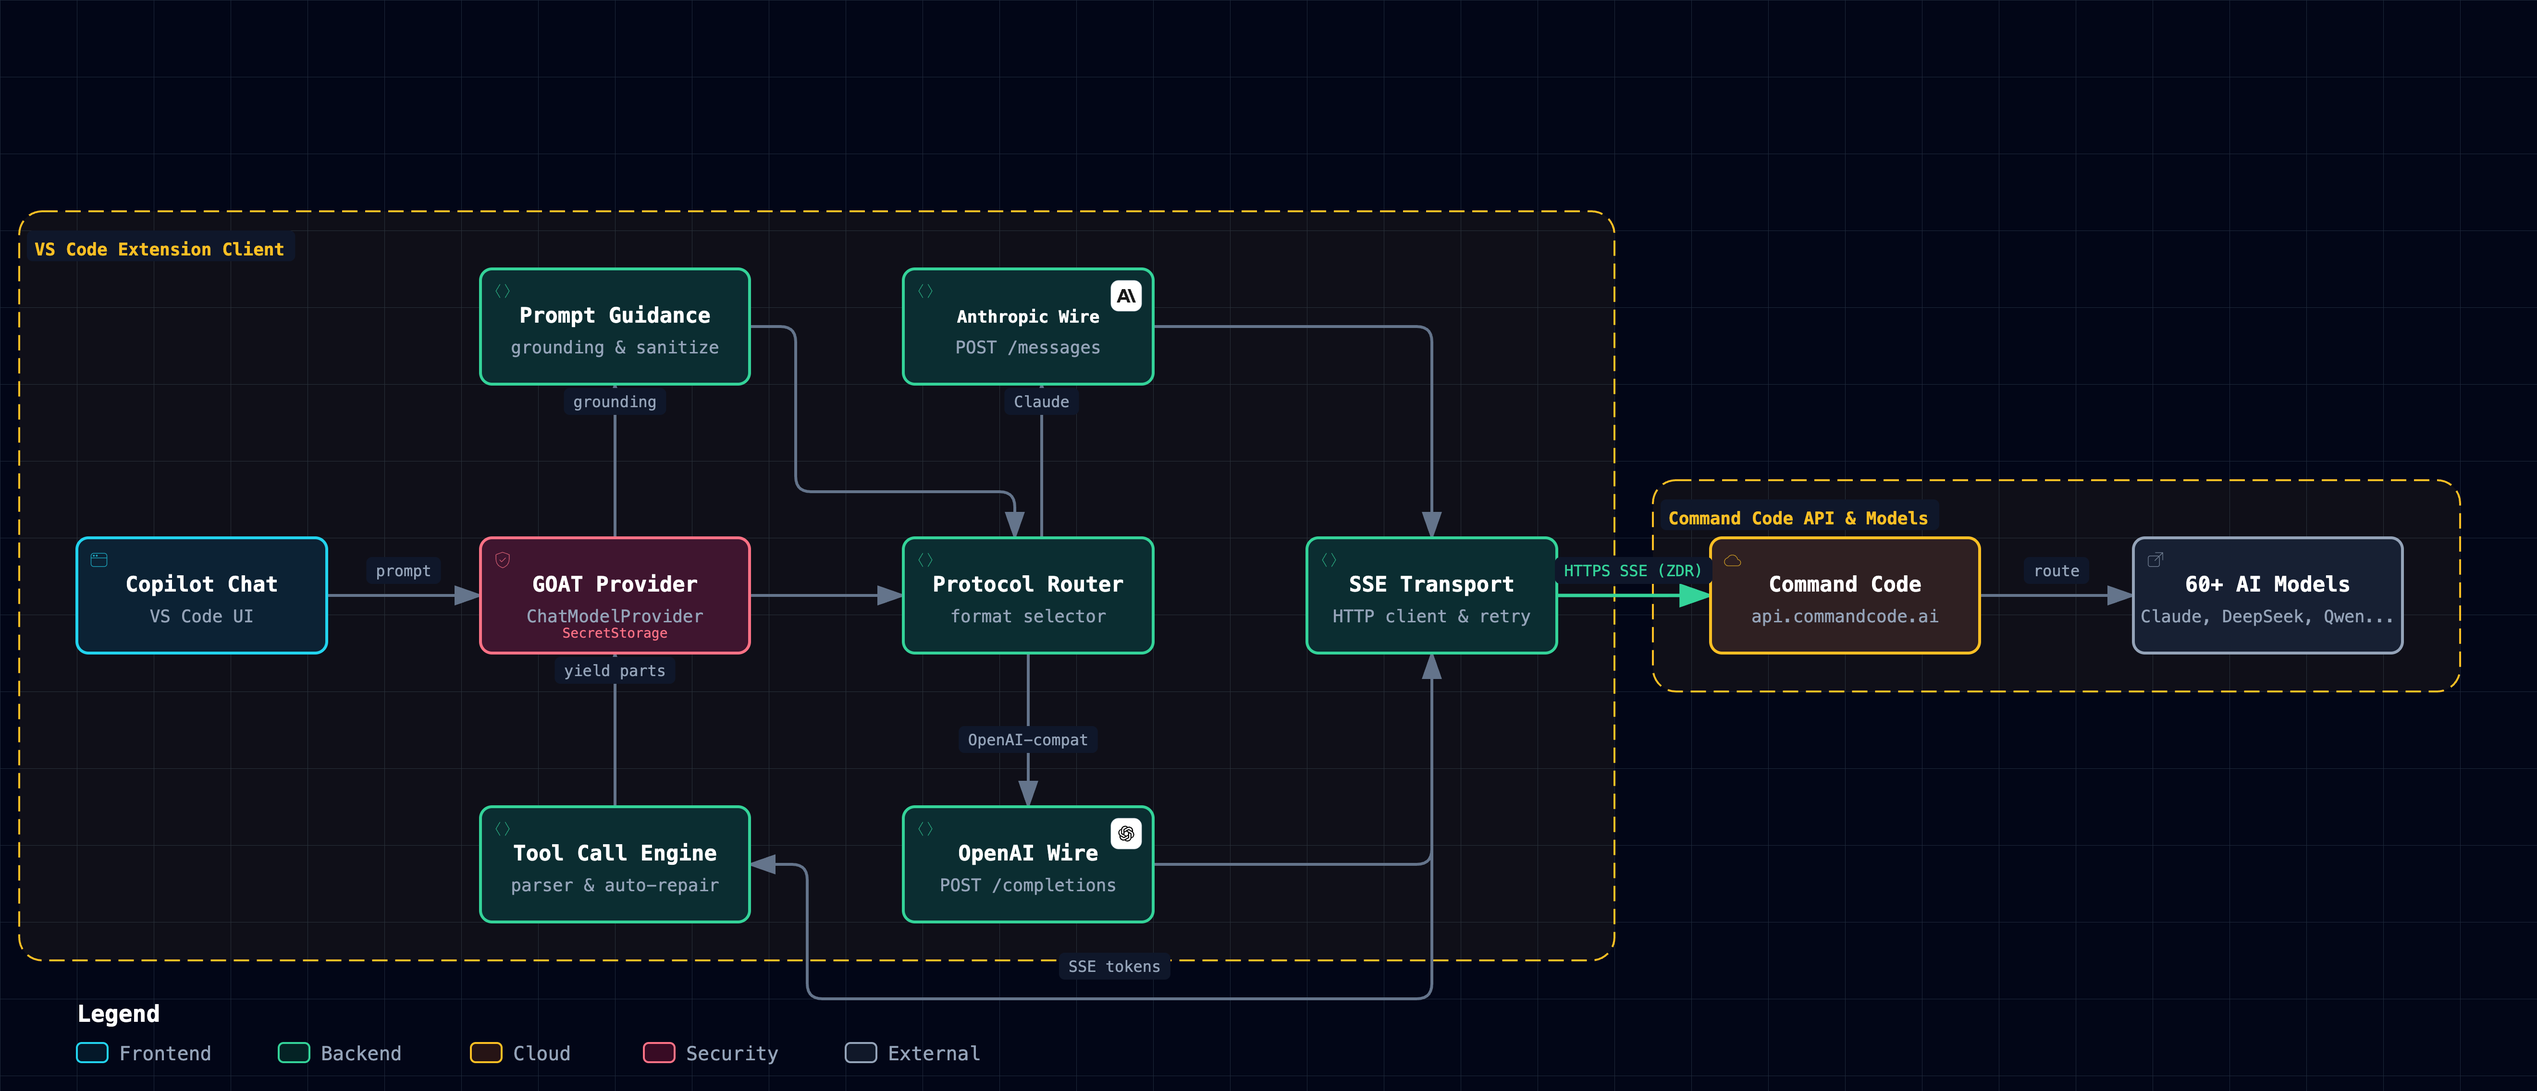
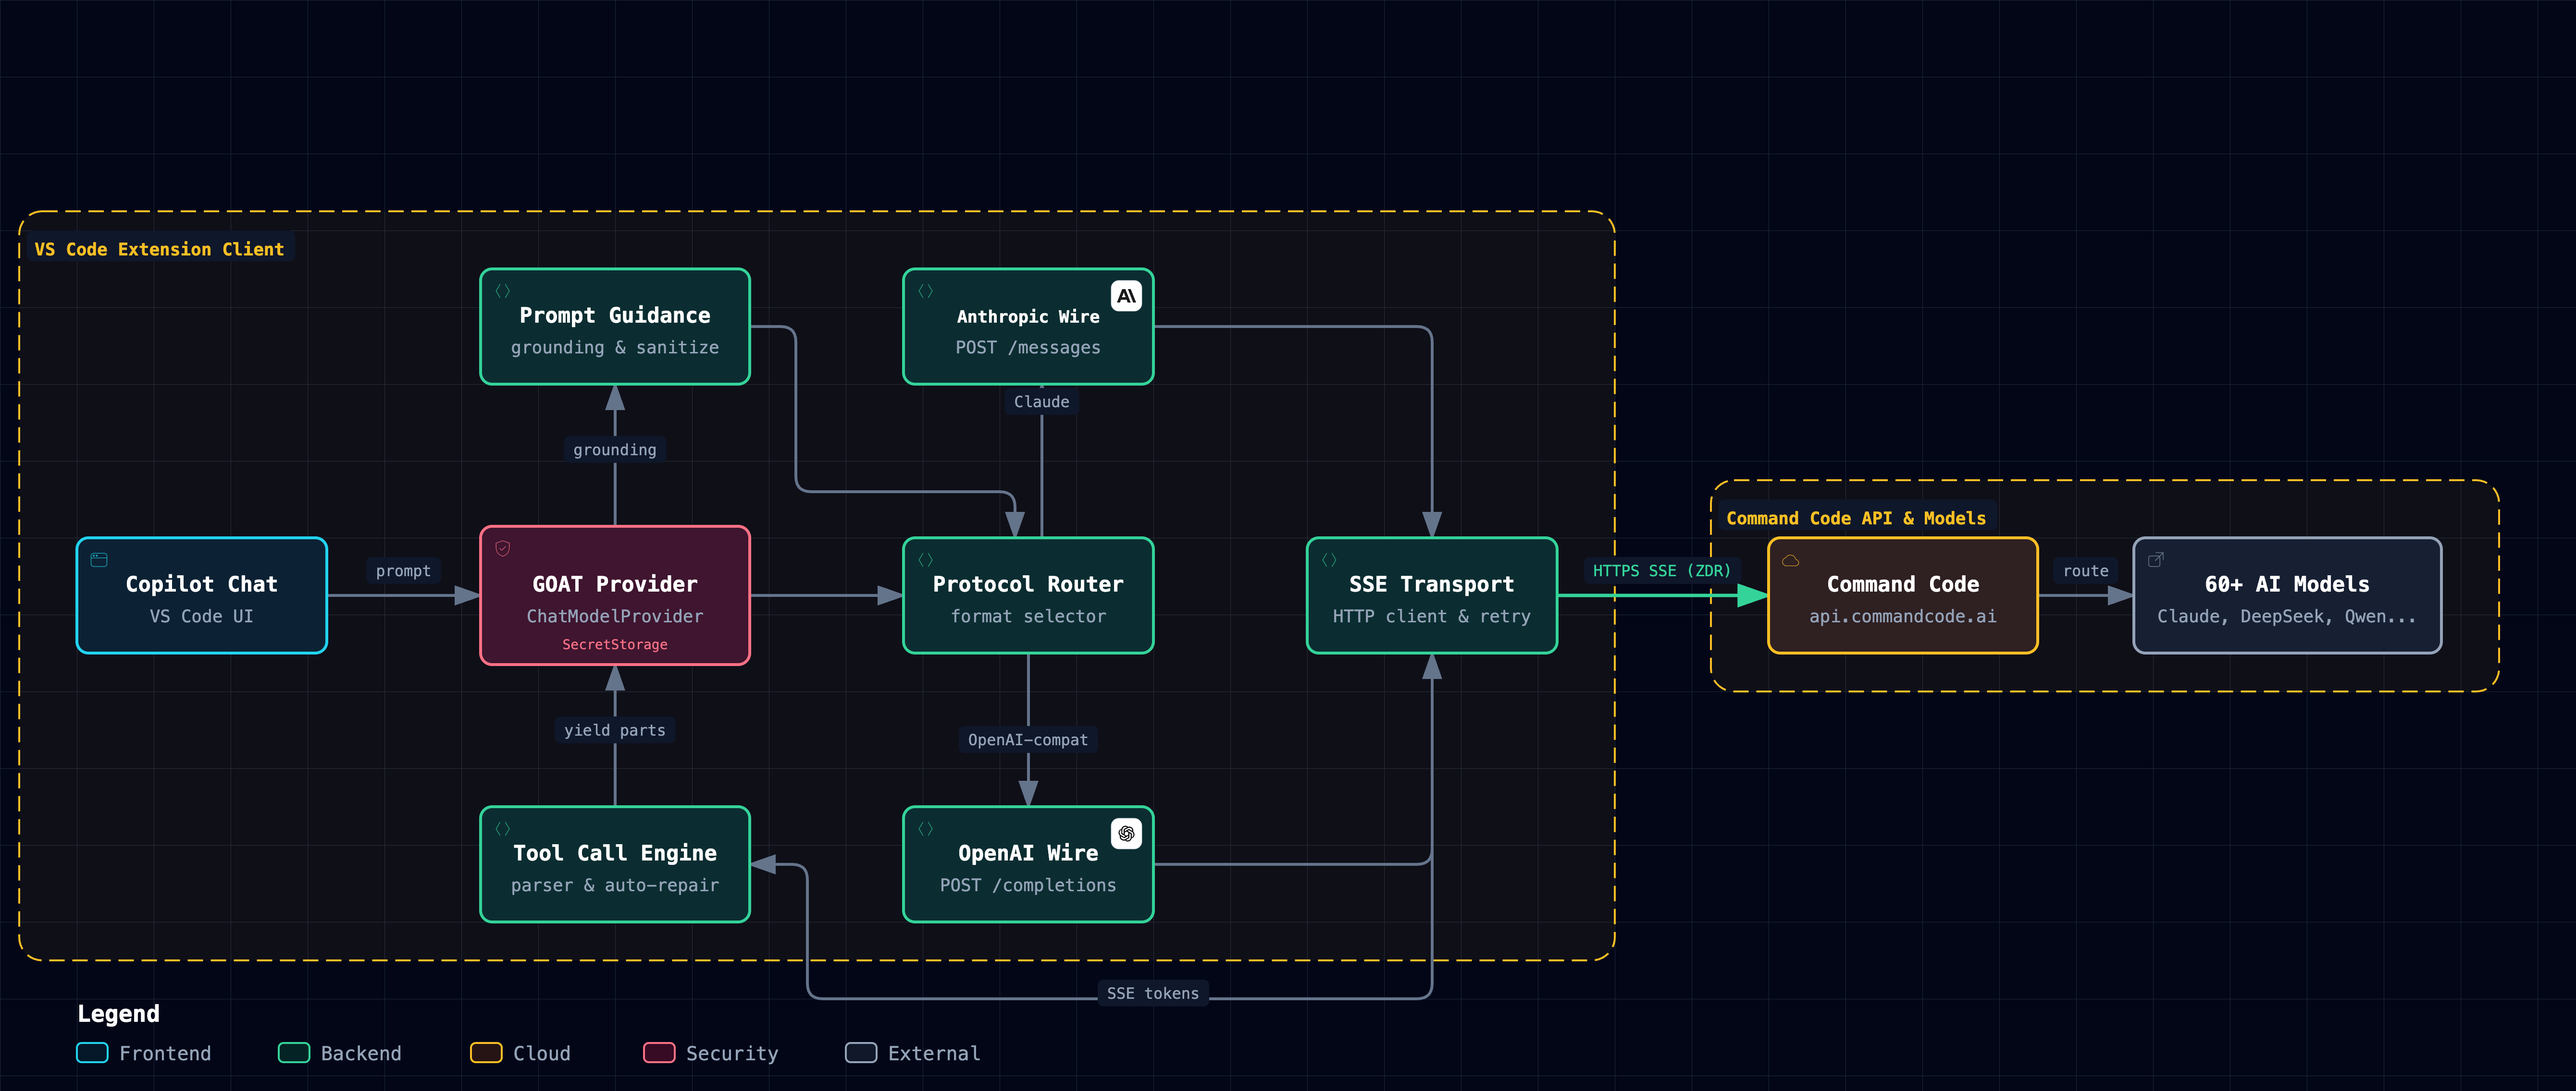
docs: rebalance architecture diagram layout to remove label overlaps

diff --git a/docs/index.html b/docs/index.html
@@ -5004,7 +5004,7 @@
     <!-- Main Diagram -->
     <div class="diagram-container" data-detail-level="read"
          data-preset-badge-editorial-plate="ARCHIFY / PLATE 04">
-      <svg viewBox="0 0 1320 568" role="img" lang="en" aria-labelledby="archify-diagram-title archify-diagram-description" data-preset="classic" data-quality-profile="showcase">
+      <svg viewBox="0 0 1340 568" role="img" lang="en" aria-labelledby="archify-diagram-title archify-diagram-description" data-preset="classic" data-quality-profile="showcase">
         <title id="archify-diagram-title">Command Code GOAT Provider Architecture</title>
         <desc id="archify-diagram-description">An architecture diagram generated by Archify.</desc>
         <!-- Definitions -->
@@ -5032,21 +5032,21 @@
         <!-- Boundaries (behind everything) -->
         <rect data-graph-role="structural-frame" data-composition-frame-kind="region" data-composition-frame-id="0" data-composition-frame-label="VS Code Extension Client" x="10" y="110" width="830" height="390" rx="12" class="c-region" stroke-width="1"/>
 
-        <rect data-graph-role="structural-frame" data-composition-frame-kind="region" data-composition-frame-id="1" data-composition-frame-label="Command Code API &amp; Models" x="860" y="250" width="420" height="110" rx="12" class="c-region" stroke-width="1"/>
+        <rect data-graph-role="structural-frame" data-composition-frame-kind="region" data-composition-frame-id="1" data-composition-frame-label="Command Code API &amp; Models" x="890" y="250" width="410" height="110" rx="12" class="c-region" stroke-width="1"/>
 
         <!-- Connection paths (before components for correct z-order) -->
         <path data-edge-from="copilot" data-edge-to="provider" data-edge-label="prompt" data-edge-key="0" data-edge-id="copilot-to-provider" data-composition-points="170,310;250,310" d="M 170 310 L 250 310" class="a-default" stroke-width="1.5" marker-end="url(#arrowhead)"/>
-        <path data-edge-from="provider" data-edge-to="guidance" data-edge-label="grounding" data-edge-key="1" data-edge-id="provider-to-guidance" data-composition-points="320,280;320,200" d="M 320 280 L 320 200" class="a-default" stroke-width="1.5" marker-end="url(#arrowhead)"/>
+        <path data-edge-from="provider" data-edge-to="guidance" data-edge-label="grounding" data-edge-key="1" data-edge-id="provider-to-guidance" data-composition-points="320,274;320,200" d="M 320 274 L 320 200" class="a-default" stroke-width="1.5" marker-end="url(#arrowhead)"/>
         <path data-edge-from="guidance" data-edge-to="router" data-edge-key="2" data-edge-id="guidance-to-router" data-composition-points="390,170;414,170;414,256;528,256;528,280" d="M 390 170 L 406 170 Q 414 170 414 178 L 414 248 Q 414 256 422 256 L 520 256 Q 528 256 528 264 L 528 280" class="a-default" stroke-width="1.5" marker-end="url(#arrowhead)"/>
         <path data-edge-from="provider" data-edge-to="router" data-edge-key="3" data-edge-id="provider-to-router" data-composition-points="390,310;470,310" d="M 390 310 L 470 310" class="a-default" stroke-width="1.5" marker-end="url(#arrowhead)"/>
         <path data-edge-from="router" data-edge-to="anthropic" data-edge-label="Claude" data-edge-key="4" data-edge-id="router-to-anthropic" data-composition-points="542,280;542,200" d="M 542 280 L 542 200" class="a-default" stroke-width="1.5" marker-end="url(#arrowhead)"/>
         <path data-edge-from="router" data-edge-to="openai" data-edge-label="OpenAI-compat" data-edge-key="5" data-edge-id="router-to-openai" data-composition-points="535,340;535,420" d="M 535 340 L 535 420" class="a-default" stroke-width="1.5" marker-end="url(#arrowhead)"/>
         <path data-edge-from="anthropic" data-edge-to="stream" data-edge-key="6" data-edge-id="anthropic-to-stream" data-composition-points="600,170;745,170;745,280" d="M 600 170 L 737 170 Q 745 170 745 178 L 745 280" class="a-default" stroke-width="1.5" marker-end="url(#arrowhead)"/>
         <path data-edge-from="openai" data-edge-to="stream" data-edge-key="7" data-edge-id="openai-to-stream" data-composition-points="600,450;745,450;745,340" d="M 600 450 L 737 450 Q 745 450 745 442 L 745 340" class="a-default" stroke-width="1.5" marker-end="url(#arrowhead)"/>
-        <path data-edge-from="stream" data-edge-to="gateway" data-edge-label="HTTPS SSE (ZDR)" data-edge-key="8" data-edge-id="stream-to-gateway" data-composition-points="810,310;890,310" d="M 810 310 L 890 310" class="a-emphasis" stroke-width="1.8" marker-end="url(#arrowhead-emphasis)"/>
-        <path data-edge-from="gateway" data-edge-to="models" data-edge-label="route" data-edge-key="9" data-edge-id="gateway-to-models" data-composition-points="1030,310;1110,310" d="M 1030 310 L 1110 310" class="a-default" stroke-width="1.5" marker-end="url(#arrowhead)"/>
+        <path data-edge-from="stream" data-edge-to="gateway" data-edge-label="HTTPS SSE (ZDR)" data-edge-key="8" data-edge-id="stream-to-gateway" data-composition-points="810,310;920,310" d="M 810 310 L 920 310" class="a-emphasis" stroke-width="1.8" marker-end="url(#arrowhead-emphasis)"/>
+        <path data-edge-from="gateway" data-edge-to="models" data-edge-label="route" data-edge-key="9" data-edge-id="gateway-to-models" data-composition-points="1060,310;1110,310" d="M 1060 310 L 1110 310" class="a-default" stroke-width="1.5" marker-end="url(#arrowhead)"/>
         <path data-edge-from="stream" data-edge-to="tool_engine" data-edge-label="SSE tokens" data-edge-key="10" data-edge-id="stream-to-tool-engine" data-composition-points="745,340;745,520;420,520;420,450;390,450" d="M 745 340 L 745 512 Q 745 520 737 520 L 428 520 Q 420 520 420 512 L 420 458 Q 420 450 412 450 L 390 450" class="a-default" stroke-width="1.5" marker-end="url(#arrowhead)"/>
-        <path data-edge-from="tool_engine" data-edge-to="provider" data-edge-label="yield parts" data-edge-key="11" data-edge-id="tool-engine-to-provider" data-composition-points="320,420;320,340" d="M 320 420 L 320 340" class="a-default" stroke-width="1.5" marker-end="url(#arrowhead)"/>
+        <path data-edge-from="tool_engine" data-edge-to="provider" data-edge-label="yield parts" data-edge-key="11" data-edge-id="tool-engine-to-provider" data-composition-points="320,420;320,346" d="M 320 420 L 320 346" class="a-default" stroke-width="1.5" marker-end="url(#arrowhead)"/>
 
         <!-- Components -->
         <g id="node-copilot" data-node-id="copilot" data-node-label="Copilot Chat" tabindex="0" role="button" aria-label="Focus Copilot Chat, VS Code UI, VS Code Extension Client" aria-pressed="false" data-node-kind="frontend" data-node-sublabel="VS Code UI" data-node-context="VS Code Extension Client">
@@ -5065,15 +5065,15 @@
 
         <g id="node-provider" data-node-id="provider" data-node-label="GOAT Provider" tabindex="0" role="button" aria-label="Focus GOAT Provider, ChatModelProvider, VS Code Extension Client" aria-pressed="false" data-node-kind="security" data-node-sublabel="ChatModelProvider" data-node-tag="SecretStorage" data-node-context="VS Code Extension Client">
           <title>GOAT Provider · ChatModelProvider · VS Code Extension Client · SecretStorage</title>
-          <rect x="250" y="280" width="140" height="60" rx="6" class="c-mask"/>
-          <rect x="250" y="280" width="140" height="60" rx="6" class="c-security" stroke-width="1.5"/>
-          <g aria-hidden="true" data-semantic-sigil="security" class="semantic-sigil s-security" transform="translate(256 286) scale(0.6875)">
+          <rect x="250" y="274" width="140" height="72" rx="6" class="c-mask"/>
+          <rect x="250" y="274" width="140" height="72" rx="6" class="c-security" stroke-width="1.5"/>
+          <g aria-hidden="true" data-semantic-sigil="security" class="semantic-sigil s-security" transform="translate(256 280) scale(0.6875)">
             <path d="M8 2.2 13 4v3.5c0 3.1-1.8 5.4-5 6.5-3.2-1.1-5-3.4-5-6.5V4Z"/>
             <path d="m5.8 8 1.5 1.5 3-3"/>
           </g>
           <text data-node-label="" data-detail-anchor="" x="320" y="308" class="t-primary" font-size="11" font-weight="600" text-anchor="middle">GOAT Provider</text>
         <text data-detail="context" x="320" y="324" class="t-muted" font-size="9" text-anchor="middle">ChatModelProvider</text>
-        <text data-detail="fine" x="320" y="332" class="t-security" font-size="7" text-anchor="middle">SecretStorage</text>
+        <text data-detail="fine" x="320" y="338" class="t-security" font-size="7" text-anchor="middle">SecretStorage</text>
         </g>
 
         <g id="node-guidance" data-node-id="guidance" data-node-label="Prompt Guidance" tabindex="0" role="button" aria-label="Focus Prompt Guidance, grounding &amp; sanitize, VS Code Extension Client" aria-pressed="false" data-node-kind="backend" data-node-sublabel="grounding &amp; sanitize" data-node-context="VS Code Extension Client">
@@ -5154,25 +5154,25 @@
 
         <g id="node-gateway" data-node-id="gateway" data-node-label="Command Code" tabindex="0" role="button" aria-label="Focus Command Code, api.commandcode.ai, Command Code API &amp; Models" aria-pressed="false" data-node-kind="cloud" data-node-sublabel="api.commandcode.ai" data-node-context="Command Code API &amp; Models">
           <title>Command Code · api.commandcode.ai · Command Code API &amp; Models</title>
-          <rect x="890" y="280" width="140" height="60" rx="6" class="c-mask"/>
-          <rect x="890" y="280" width="140" height="60" rx="6" class="c-cloud" stroke-width="1.5"/>
-          <g aria-hidden="true" data-semantic-sigil="cloud" class="semantic-sigil s-cloud" transform="translate(896 286) scale(0.6875)">
+          <rect x="920" y="280" width="140" height="60" rx="6" class="c-mask"/>
+          <rect x="920" y="280" width="140" height="60" rx="6" class="c-cloud" stroke-width="1.5"/>
+          <g aria-hidden="true" data-semantic-sigil="cloud" class="semantic-sigil s-cloud" transform="translate(926 286) scale(0.6875)">
             <path d="M4.3 12.5h7.3a2.4 2.4 0 0 0 .2-4.8 4 4 0 0 0-7.5-1.3A3.1 3.1 0 0 0 4.3 12.5Z"/>
           </g>
-          <text data-node-label="" data-detail-anchor="" x="960" y="308" class="t-primary" font-size="11" font-weight="600" text-anchor="middle">Command Code</text>
-        <text data-detail="context" x="960" y="324" class="t-muted" font-size="9" text-anchor="middle">api.commandcode.ai</text>
+          <text data-node-label="" data-detail-anchor="" x="990" y="308" class="t-primary" font-size="11" font-weight="600" text-anchor="middle">Command Code</text>
+        <text data-detail="context" x="990" y="324" class="t-muted" font-size="9" text-anchor="middle">api.commandcode.ai</text>
         </g>
 
         <g id="node-models" data-node-id="models" data-node-label="60+ AI Models" tabindex="0" role="button" aria-label="Focus 60+ AI Models, Claude, DeepSeek, Qwen..., Command Code API &amp; Models" aria-pressed="false" data-node-kind="external" data-node-sublabel="Claude, DeepSeek, Qwen..." data-node-context="Command Code API &amp; Models">
           <title>60+ AI Models · Claude, DeepSeek, Qwen... · Command Code API &amp; Models</title>
-          <rect x="1110" y="280" width="140" height="60" rx="6" class="c-mask"/>
-          <rect x="1110" y="280" width="140" height="60" rx="6" class="c-external" stroke-width="1.5"/>
+          <rect x="1110" y="280" width="160" height="60" rx="6" class="c-mask"/>
+          <rect x="1110" y="280" width="160" height="60" rx="6" class="c-external" stroke-width="1.5"/>
           <g aria-hidden="true" data-semantic-sigil="external" class="semantic-sigil s-external" transform="translate(1116 286) scale(0.6875)">
             <rect x="2.5" y="5" width="8.5" height="8" rx="1.5"/>
             <path d="M8 2.5h5.5V8M13.5 2.5 7.5 8.5"/>
           </g>
-          <text data-node-label="" data-detail-anchor="" x="1180" y="308" class="t-primary" font-size="11" font-weight="600" text-anchor="middle">60+ AI Models</text>
-        <text data-detail="context" x="1180" y="324" class="t-muted" font-size="8.8" text-anchor="middle">Claude, DeepSeek, Qwen...</text>
+          <text data-node-label="" data-detail-anchor="" x="1190" y="308" class="t-primary" font-size="11" font-weight="600" text-anchor="middle">60+ AI Models</text>
+        <text data-detail="context" x="1190" y="324" class="t-muted" font-size="9" text-anchor="middle">Claude, DeepSeek, Qwen...</text>
         </g>
 
         <!-- Connection labels -->
@@ -5181,8 +5181,8 @@
           <text x="210" y="300" class="t-muted" font-size="8" text-anchor="middle">prompt</text>
         </g>
         <g data-detail="context" data-edge-from="provider" data-edge-to="guidance" data-edge-label="grounding" data-edge-key="1" data-edge-id="provider-to-guidance">
-          <rect x="293.4" y="202" width="53.199999999999996" height="14" rx="3" class="c-mask"/>
-          <text x="320" y="212" class="t-muted" font-size="8" text-anchor="middle">grounding</text>
+          <rect x="293.4" y="227" width="53.199999999999996" height="14" rx="3" class="c-mask"/>
+          <text x="320" y="237" class="t-muted" font-size="8" text-anchor="middle">grounding</text>
         </g>
 
 
@@ -5197,20 +5197,20 @@
 
 
         <g data-detail="context" data-edge-from="stream" data-edge-to="gateway" data-edge-label="HTTPS SSE (ZDR)" data-edge-key="8" data-edge-id="stream-to-gateway">
-          <rect x="809" y="290" width="82" height="14" rx="3" class="c-mask"/>
-          <text x="850" y="300" class="t-backend" font-size="8" text-anchor="middle">HTTPS SSE (ZDR)</text>
+          <rect x="824" y="290" width="82" height="14" rx="3" class="c-mask"/>
+          <text x="865" y="300" class="t-backend" font-size="8" text-anchor="middle">HTTPS SSE (ZDR)</text>
         </g>
         <g data-detail="context" data-edge-from="gateway" data-edge-to="models" data-edge-label="route" data-edge-key="9" data-edge-id="gateway-to-models">
-          <rect x="1053" y="290" width="34" height="14" rx="3" class="c-mask"/>
-          <text x="1070" y="300" class="t-muted" font-size="8" text-anchor="middle">route</text>
+          <rect x="1068" y="290" width="34" height="14" rx="3" class="c-mask"/>
+          <text x="1085" y="300" class="t-muted" font-size="8" text-anchor="middle">route</text>
         </g>
         <g data-detail="context" data-edge-from="stream" data-edge-to="tool_engine" data-edge-label="SSE tokens" data-edge-key="10" data-edge-id="stream-to-tool-engine">
-          <rect x="551" y="496" width="58" height="14" rx="3" class="c-mask"/>
-          <text x="580" y="506" class="t-muted" font-size="8" text-anchor="middle">SSE tokens</text>
+          <rect x="571" y="510" width="58" height="14" rx="3" class="c-mask"/>
+          <text x="600" y="520" class="t-muted" font-size="8" text-anchor="middle">SSE tokens</text>
         </g>
         <g data-detail="context" data-edge-from="tool_engine" data-edge-to="provider" data-edge-label="yield parts" data-edge-key="11" data-edge-id="tool-engine-to-provider">
-          <rect x="288.6" y="342" width="62.8" height="14" rx="3" class="c-mask"/>
-          <text x="320" y="352" class="t-muted" font-size="8" text-anchor="middle">yield parts</text>
+          <rect x="288.6" y="373" width="62.8" height="14" rx="3" class="c-mask"/>
+          <text x="320" y="383" class="t-muted" font-size="8" text-anchor="middle">yield parts</text>
         </g>
 
         <!-- Boundary labels (foreground masks keep routes out of titles) -->
@@ -5220,8 +5220,8 @@
         </g>
 
         <g data-graph-role="structural-frame-label" data-composition-frame-id="1" data-composition-frame-kind="region" data-composition-frame-label="Command Code API &amp; Models">
-          <rect data-graph-role="structural-frame-label-mask" x="864" y="260" width="145" height="16" rx="3" class="c-mask"/>
-          <text data-boundary-label="" x="868" y="273" class="t-cloud" font-size="9" font-weight="600">Command Code API &amp; Models</text>
+          <rect data-graph-role="structural-frame-label-mask" x="894" y="260" width="145" height="16" rx="3" class="c-mask"/>
+          <text data-boundary-label="" x="898" y="273" class="t-cloud" font-size="9" font-weight="600">Command Code API &amp; Models</text>
         </g>
 
         <!-- Legend -->
